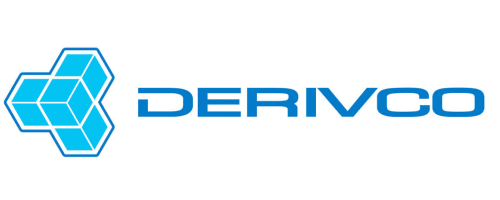
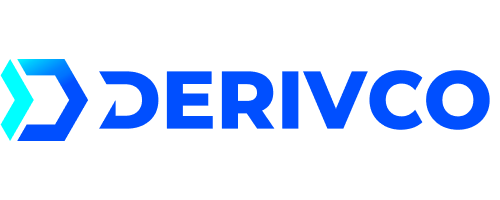
Add APIs diagram and LLM Conversation (#142)
* Add APIs diagram and LLM Conversation

* Fix Conversation docs link

* Update Derivco logo

---------

Changed region(s): [[0.0, 0.21, 0.99, 0.81]]

diff --git a/themes/bigspring/layouts/partials/home/apis.html b/themes/bigspring/layouts/partials/home/apis.html
@@ -1,13 +1,17 @@
 {{ if site.Data.homepage.buildingBlock.enable }}
 {{ with site.Data.homepage.buildingBlock }}
 <section>
-  <div class="padding-top-down-30 font-weight-300">
+  <section class="width-80 vertical-align-center padding-top-down-30 value-prop-text ">
+  
     <h2 class="text-center padding-bottom-20 text-blue">{{ .title }}</h2>
+    <img src="{{ .image }}" alt="{{ .imagealt }}">
     {{ if .content }}
     <p class="text-justify font-weight-300">
       {{ .content }}
     </p>
     {{ end }}
+    </section>
+    <section>
     <div class="flex flex-wrap gap-md row-gap-20 width-80 vertical-align-center padding-bottom-20 column-mobile">
       {{ range .feature_item }}
       <div class="feature-card width-20 width-90-mobile">
@@ -20,7 +24,6 @@
       </div>
       {{ end }}
     </div>
-  </div>
 </section>
 {{ end }}
 {{ end }}
